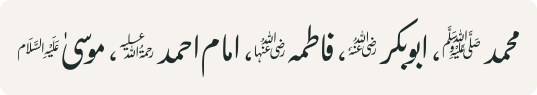
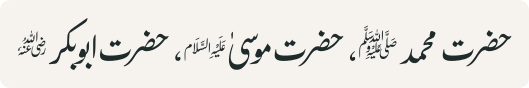
README: honorific example with Hazrat before each name, Musa after Muhammad

Changed region(s): [[0.0302, 0.1818, 0.9679, 0.7955], [0.2117, 0.7273, 0.242, 0.75]]

diff --git a/scripts/readme-images.py b/scripts/readme-images.py
@@ -34,7 +34,8 @@ HONORIFICS = [
 
 SAMPLES = {
     "title": ("گلزار نستعلیق", 84),
-    "typed": ("محمد صلی اللہ علیہ وسلم، ابوبکر رضی اللہ عنہ، فاطمہ رضی اللہ عنہا، امام احمد رحمۃ اللہ علیہ، موسیٰ علیہ السلام", 44),
+    "typed": ("حضرت محمد صلی اللہ علیہ وسلم، حضرت موسیٰ علیہ السلام، حضرت ابوبکر رضی اللہ عنہ", 44),
+    "typed2": ("حضرت فاطمہ رضی اللہ عنہا، امام احمد رحمۃ اللہ علیہ", 44),
     "kaf": ("کی، گی، کیے، گئے، اگر، مگر، کم، گھنٹوں", 44),
     "laam": ("لکھا، لگا، ملک، الگ", 44),
     "joins": ("صحیح، صل", 44),

diff --git a/README.md b/README.md
@@ -64,7 +64,8 @@ Honorific ligatures drawn from the font's own letters with full harakat and size
 
 Typed phrases turn into these glyphs automatically: write the phrase in plain text (with or without harakat, with or without spaces between the words, with Urdu or Arabic ye and he) and it is shown as the single honorific. A phrase that is only part of a longer word (سلمان، اللہیار) is left alone.
 
-<img src="documentation/readme/typed.png" height="70" alt="typed phrases shown as honorifics">
+<img src="documentation/readme/typed.png" height="70" alt="typed phrases shown as honorifics"><br>
+<img src="documentation/readme/typed2.png" height="70" alt="typed phrases shown as honorifics">
 
 ### Optimised and tested
 
